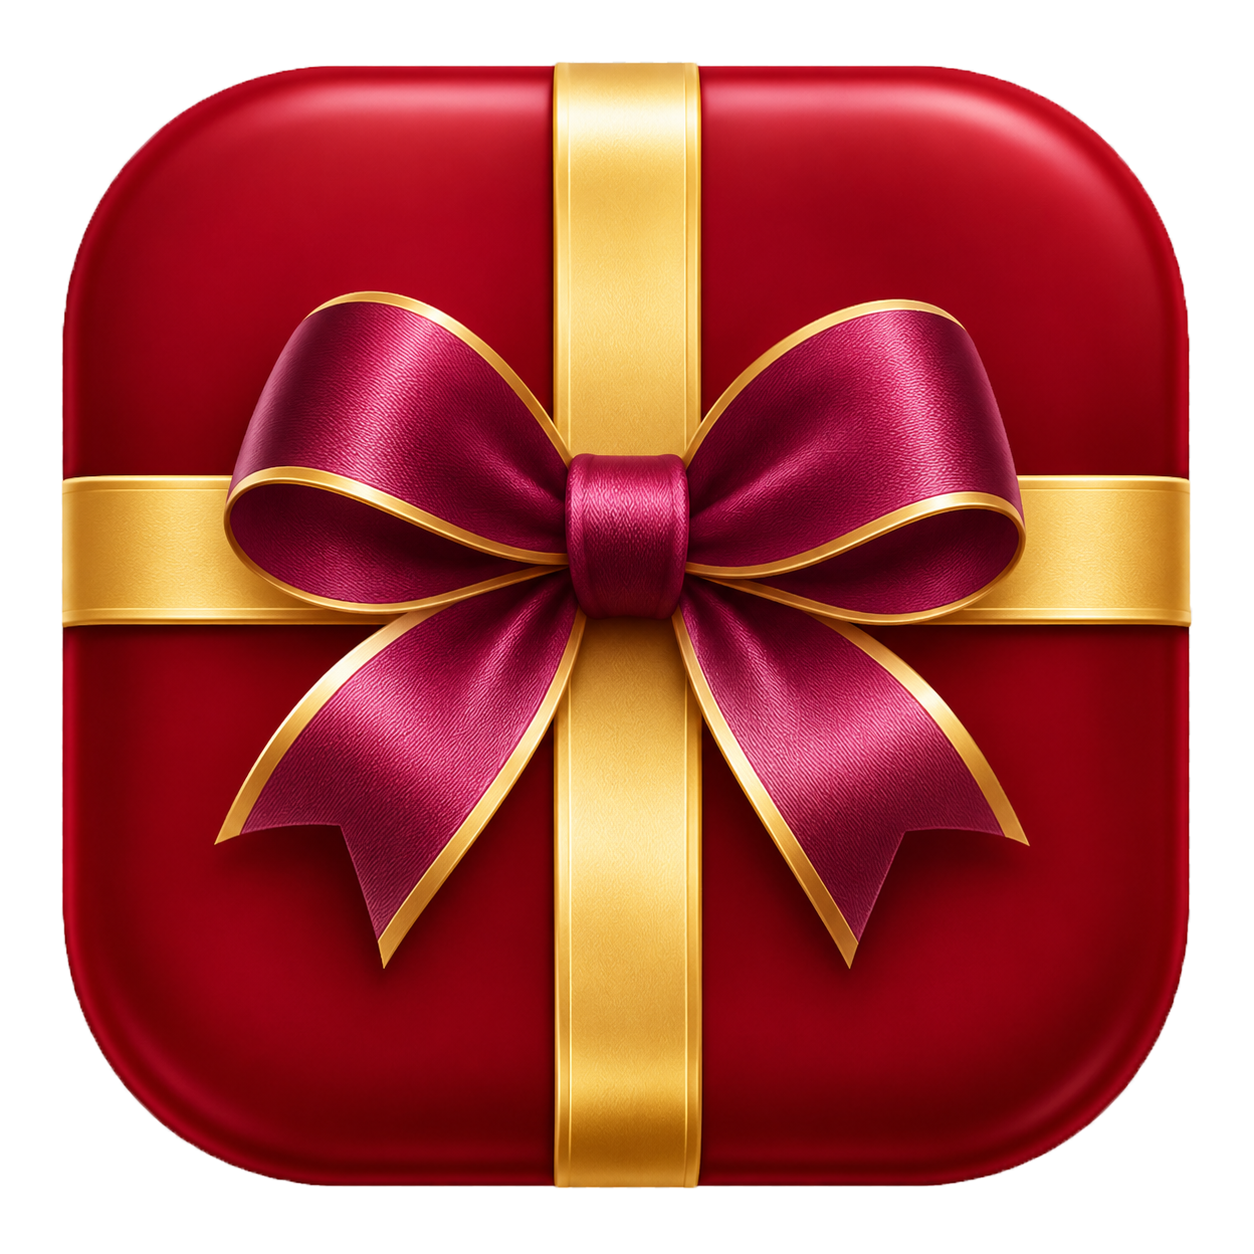
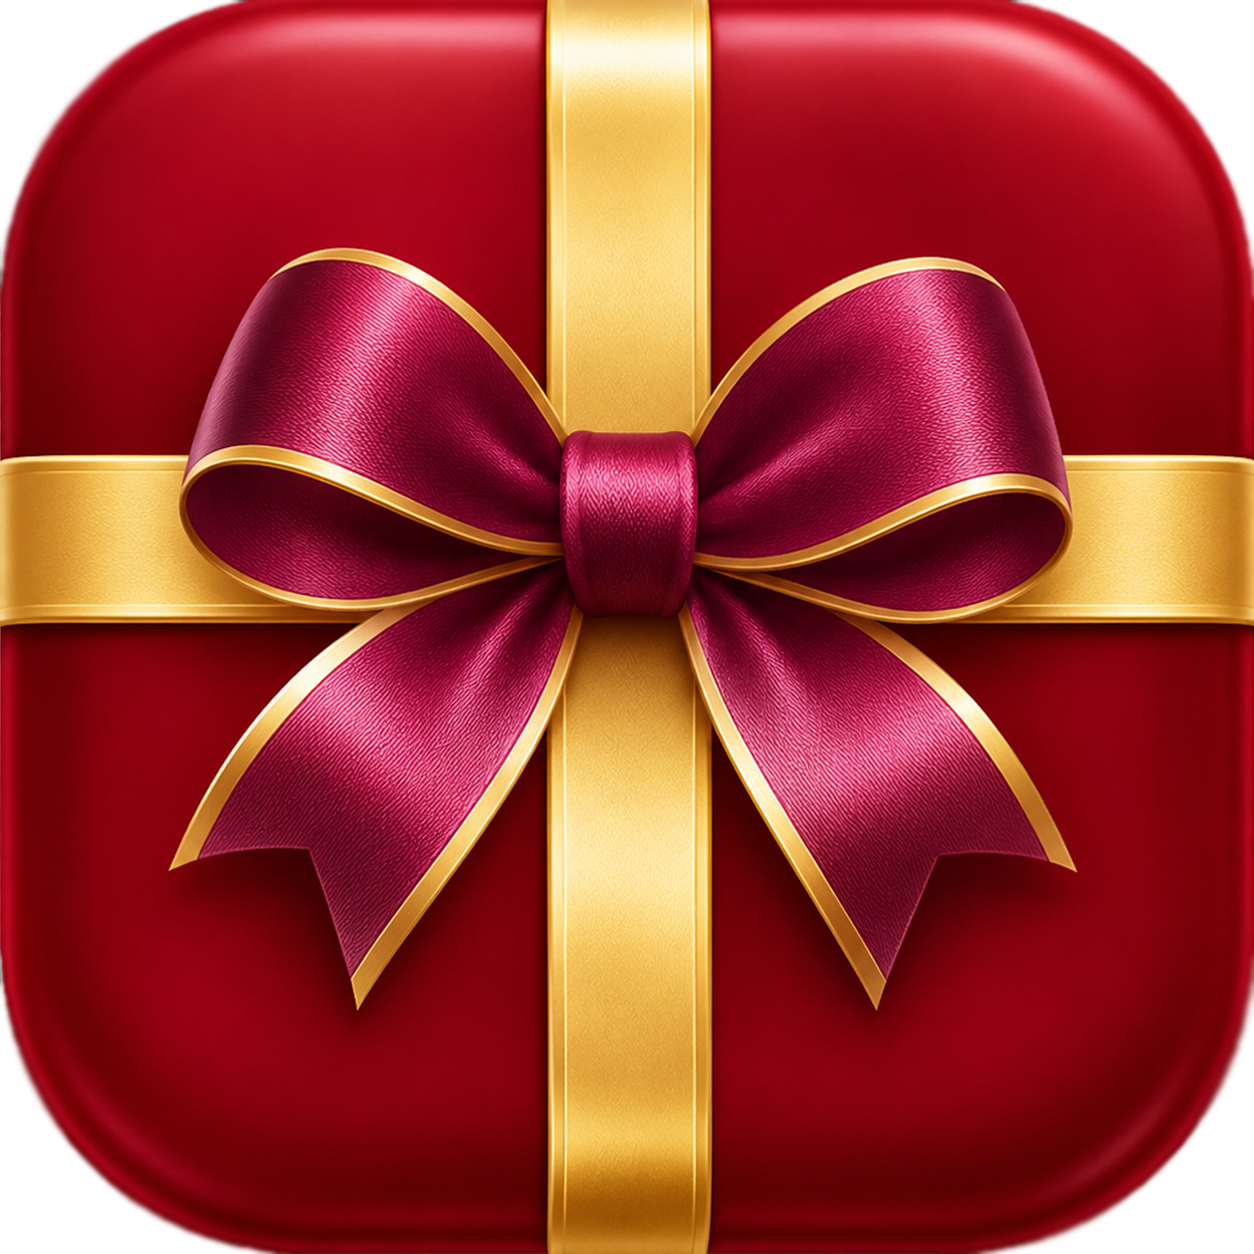
mejoras de icono

diff --git a/index.html b/index.html
@@ -25,7 +25,7 @@
   <div id="snowfall" aria-hidden="true"></div>
   <div class="announcement">UNA TRADICIÓN NUESTRA, UNA NUEVA FORMA DE VIVIRLA <span>✧</span> EDICIÓN 2026</div>
   <header class="header wrap">
-    <a class="brand" href="#" aria-label="Para ti, inicio"><span class="brand-star">✳</span> para ti<span class="brand-period">.</span></a>
+    <a class="brand" href="#" aria-label="Para ti, inicio"><span class="brand-star">✧</span> para ti<span class="brand-period">.</span></a>
     <nav aria-label="Navegación principal"><a href="#calendario" class="nav-active">El calendario</a><button id="letter-button">Una pequeña carta <span>♡</span></button></nav>
     <span class="chapter">NUESTRO QUINTO CAPÍTULO</span>
   </header>
@@ -43,7 +43,7 @@
         <svg class="pine" viewBox="0 0 220 210" fill="none" aria-hidden="true"><g stroke="#385047" stroke-width="2"><path d="M190 8 48 200M177 26l-59 12m53-4-12-29m-1 47-72 9m62 4-14-47m-1 67-79 3m64 18-12-58m-4 80-75-8m63 25-20-57m5 80-58-14m47 32-25-51"/><path d="m176 27-46-4m31 26-18-37m2 59-63-22m47 43-24-53m8 77-71-21m58 41-30-57m15 76-64-22"/></g></svg>
         <div class="art-card"><span>A veces, el mejor regalo</span><strong>es tenerte<br>cerquita.</strong><span class="card-heart">♡</span></div>
         <div class="hero-gift gift-back"><div class="gift-ribbon vertical"></div><div class="gift-ribbon horizontal"></div><div class="bow"><i></i><i></i></div><span class="gift-tag">con amor ♡</span><span class="sparkle sp-1">✦</span><span class="sparkle sp-2">✧</span><span class="sparkle sp-3">✦</span></div>
-        <div class="hero-gift gift-front"><div class="gift-ribbon vertical"></div><div class="gift-ribbon horizontal"></div><div class="bow"><i></i><i></i></div><span class="gift-star">✳</span><span class="sparkle sp-1">✦</span><span class="sparkle sp-2">✧</span><span class="sparkle sp-3">✦</span></div>
+        <div class="hero-gift gift-front"><div class="gift-ribbon vertical"></div><div class="gift-ribbon horizontal"></div><div class="bow"><i></i><i></i></div><span class="gift-star">✧</span><span class="sparkle sp-1">✦</span><span class="sparkle sp-2">✧</span><span class="sparkle sp-3">✦</span></div>
         <span class="art-caption">29 sorpresas & un misterio más</span>
       </div>
     </section>
